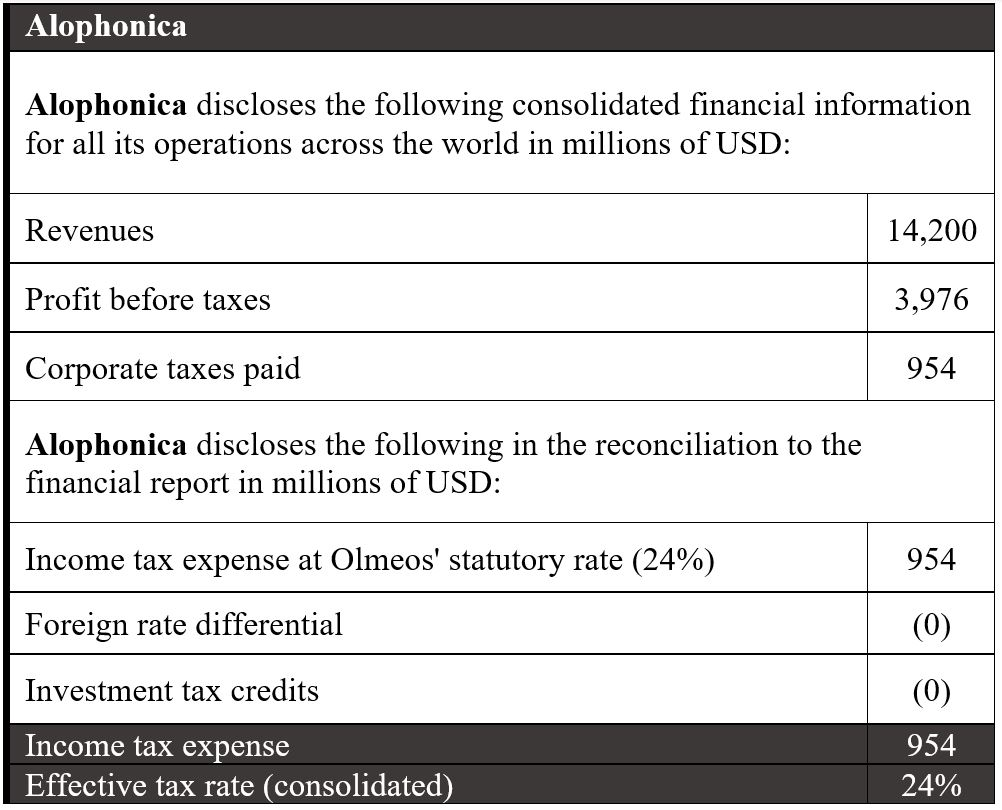
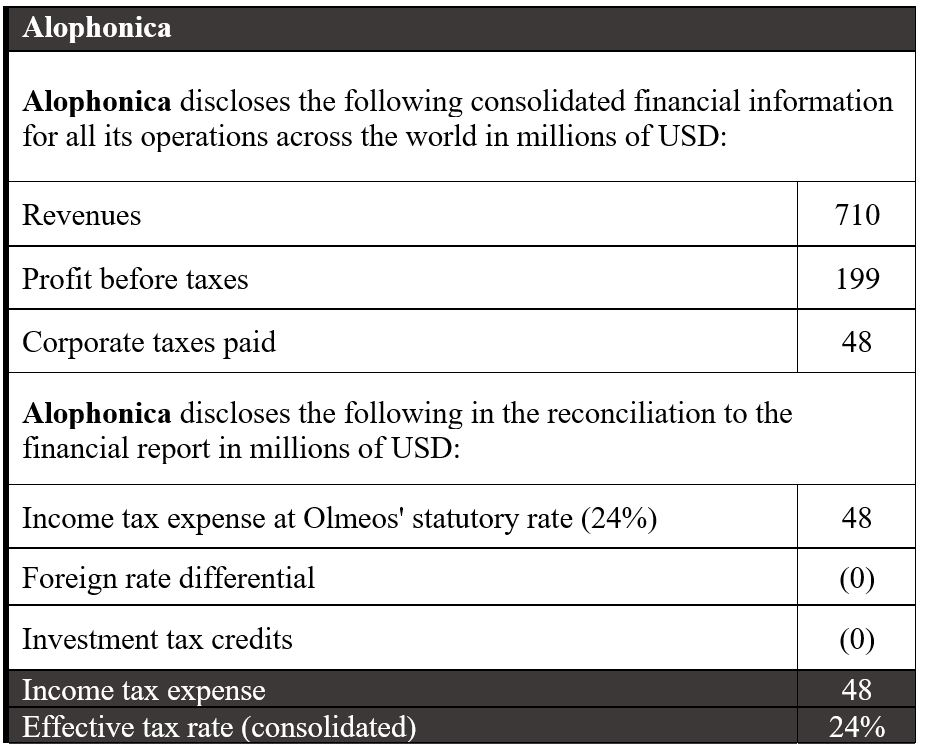
Update simpler numbers no etR

Changed region(s): [[0.0, 0.0, 0.9978, 1.0]]

diff --git a/publictax/templates/publictax/E_judge.html b/publictax/templates/publictax/E_judge.html
@@ -54,19 +54,15 @@
         </tr>
         <tr>
             <td>Revenues:</td>
-            <td align="center">$14,200</td>
+            <td align="center">$700</td>
         </tr>
         <tr>
             <td>Profit Before Taxes:</td>
-            <td align="center">$3,976</td>
+            <td align="center">$199</td>
         </tr>
         <tr>
             <td>Corporate Taxes Paid:</td>
-            <td align="center">$430</td>
-        </tr>
-        <tr>
-            <td>Effective tax rate in Olmeos:</td>
-            <td align="center">11%</td>
+            <td align="center">$22</td>
         </tr>
     </table><br clear="all">
 </div>
@@ -111,19 +107,15 @@
         </tr>
         <tr>
             <td>Revenues:</td>
-            <td align="center">$10,200</td>
+            <td align="center">$510</td>
         </tr>
         <tr>
             <td>Profit Before Taxes:</td>
-            <td align="center">$1,219</td>
+            <td align="center">$61</td>
         </tr>
         <tr>
             <td>Corporate Taxes Paid:</td>
-            <td align="center">$292</td>
-        </tr>
-        <tr>
-            <td>Effective tax rate in Olmeos:</td>
-            <td align="center">24%</td>
+            <td align="center">$15</td>
         </tr>
     </table><br clear="all">
 </div>
